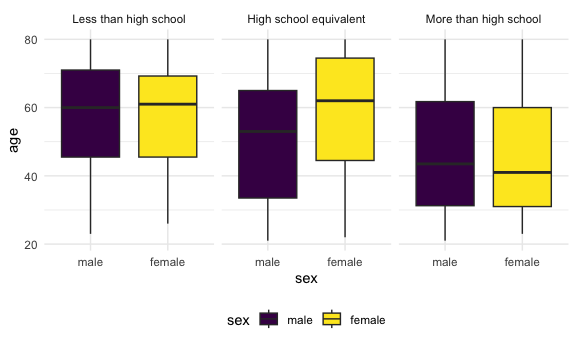
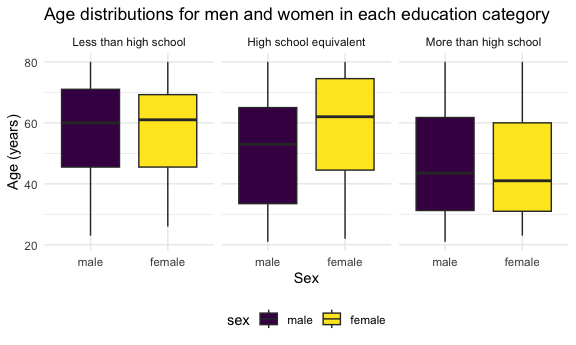
Final Review!

diff --git a/p8105_hw3_msj2167.md b/p8105_hw3_msj2167.md
@@ -97,7 +97,12 @@ nhanes_demo_df |>
 nhanes_demo_df |>
   ggplot(aes(x = sex, y = age, fill = sex)) +
   geom_boxplot() +
-  facet_grid(. ~ education)
+  facet_grid(. ~ education) +
+  labs(
+    title = "Age distributions for men and women in each education category",
+      x = "Sex",
+    y = "Age (years)"
+  )
 ```
 
 <img src="p8105_hw3_msj2167_files/figure-gfm/unnamed-chunk-5-1.png" alt="" width="90%" />
